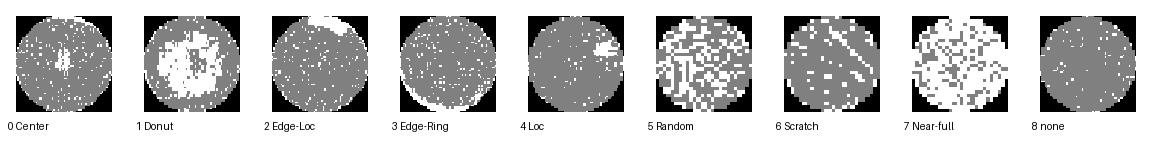
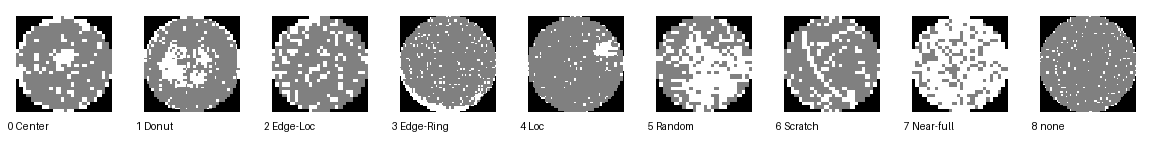
feat: add training results analysis report and update dataset reports

diff --git a/docs/results_analysis.md b/docs/results_analysis.md
@@ -1,0 +1,142 @@
+# 训练结果分析报告
+
+## 概述
+
+本报告总结基于 ResNet-34 迁移学习的晶圆表面缺陷图谱识别模型训练结果。模型在 WM-811K 数据集上训练 30 个 epoch，使用 ImageNet 预训练权重初始化，冻结浅层（conv1, bn1, layer1, layer2）并微调深层。
+
+- 训练环境：NVIDIA GeForce RTX 4090 D (24GB)，PyTorch 2.6.0 + CUDA 12.4
+- 训练日期：2026-05-31
+- 模型：ResNet-34，9 类输出
+- 输入：64×64 灰度晶圆图（3 通道复制）
+
+## 数据集分布
+
+| 类别 | Train | Val | Test | 说明 |
+|------|-------|-----|------|------|
+| Center (0) | 3005 | 644 | 645 | 中心缺陷 |
+| Donut (1) | 388 | 83 | 84 | 圆环缺陷 |
+| Edge-Loc (2) | 3632 | 778 | 779 | 边缘局部缺陷 |
+| Edge-Ring (3) | 6776 | 1452 | 1452 | 边缘环缺陷 |
+| Loc (4) | 2515 | 538 | 540 | 局部缺陷 |
+| Random (5) | 606 | 129 | 131 | 随机缺陷 |
+| Scratch (6) | 835 | 178 | 180 | 划痕缺陷 |
+| Near-full (7) | 104 | 22 | 23 | 近满缺陷 |
+| none (8) | 14000 | 3000 | 3000 | 无缺陷 |
+| **合计** | **31861** | **6824** | **6834** | |
+
+严重类别不平衡：None 类占 44%，Near-full 仅 0.3%。
+
+## 训练配置
+
+- Epochs：30
+- 批次大小：32
+- 优化器：Adam，学习率 0.0001
+- 损失函数：CrossEntropyLoss（类别加权）
+- 数据增强：随机旋转 90°、水平/垂直翻转、随机裁剪
+- 浅层冻结：conv1, bn1, layer1, layer2
+
+## 最终结果
+
+### 测试集指标
+
+| 指标 | 值 | 基线 | 提升 |
+|------|-----|------|------|
+| Accuracy | **0.7713** | 0.7430 | +2.83% |
+| Macro F1 | **0.6723** | 0.7160 | -4.37% |
+| Weighted F1 | **0.7788** | 0.7564 | +2.24% |
+
+### 各类别详细指标
+
+| 类别 | Precision | Recall | F1-Score | Support |
+|------|-----------|--------|----------|---------|
+| Center (0) | 0.8838 | 0.8372 | 0.8599 | 645 |
+| Donut (1) | 0.6320 | 0.9405 | 0.7560 | 84 |
+| Edge-Loc (2) | 0.4444 | 0.7445 | 0.5566 | 779 |
+| Edge-Ring (3) | 0.8311 | 0.9862 | 0.9020 | 1452 |
+| Loc (4) | 0.7256 | 0.4259 | 0.5368 | 540 |
+| Random (5) | 0.6613 | 0.6260 | 0.6431 | 131 |
+| Scratch (6) | 0.4378 | 0.6056 | 0.5082 | 180 |
+| Near-full (7) | 0.2987 | 1.0000 | 0.4600 | 23 |
+| None (8) | 0.9535 | 0.7320 | 0.8282 | 3000 |
+
+## 结果分析
+
+### 表现优秀的类别
+
+1. **Edge-Ring (3)** — F1=0.9020，样本最多（1452），Recall 高达 0.9862。边缘环缺陷具有非常独特的空间模式，模型几乎完美识别。
+
+2. **Center (0)** — F1=0.8599，Precision 0.8838。中心缺陷的集中分布特征使其易于区分。
+
+3. **None (8)** — F1=0.8282。虽然 Recall 仅 0.7320（约 27% 无缺陷样本被误判），但 Precision 0.9535 意味着模型判断为 None 的样本几乎都是正确的。
+
+### 表现较差的类别
+
+1. **Near-full (7)** — F1=0.4600，仅 23 个测试样本。Precision 0.2987 极低，意味着大量其他类被误判为 Near-full。主要原因是样本极度稀缺。
+
+2. **Scratch (6)** — F1=0.5082。划痕缺陷与 Random、Loc 等类别在 64×64 分辨率下空间模式相似度高，容易混淆。
+
+3. **Edge-Loc (2)** — F1=0.5566，Recall 0.7445 但 Precision 仅 0.4444。大量样本被误判为 Edge-Loc，混淆矩阵显示主要与 Edge-Ring 和 None 类混淆。
+
+### 混淆模式
+
+从混淆矩阵观察到的主要混淆对：
+
+- **None → Edge-Loc**：544 个 None 样本被误判为 Edge-Loc
+- **Center → Loc**：48 个 Center 样本被误判为 Loc
+- **Edge-Loc ↔ Edge-Ring**：127 个 Edge-Loc 被误判为 Edge-Ring
+- **Loc ↔ Scratch**：38 个 Loc 被误判为 Scratch
+
+## 改进建议
+
+### 数据处理层面
+
+1. **提高分辨率**：当前 64×64 可能不足以捕捉 Scratch、Loc 等类别的细微空间差异。建议尝试 96×96 或 128×128。
+
+2. **处理类别不平衡**：
+   - Near-full (149 原始样本) 可使用 SMOTE 或更强的数据增强（弹性变形、仿射变换）
+   - Donut (555 原始样本) 也需要更多增强
+
+3. **多分辨率特征**：引入多尺度输入或 FPN 结构，同时捕捉全局和局部缺陷特征。
+
+### 模型层面
+
+1. **更强的 backbone**：尝试 ResNet-50 或 EfficientNet-B3，在相同数据量下可能获得更好特征表示。
+
+2. **注意力机制**：引入 CBAM 或 SE 模块，增强对关键缺陷区域的关注。
+
+3. **层次化分类**：先区分有缺陷/无缺陷，再对缺陷类型细分，可利用二阶段策略缓解类别不平衡。
+
+4. **知识蒸馏**：使用更大的预训练模型（如 ViT）作为教师模型蒸馏到 ResNet-34。
+
+### 训练策略
+
+1. **Focal Loss**：替换类别加权的 CrossEntropyLoss，直接关注难分类样本。
+
+2. **MixUp / CutMix**：混合数据增强，提升模型泛化能力。
+
+3. **更长训练**：当前 best acc 出现在较早 epoch，可尝试 cosine annealing schedule 跳出局部最优。
+
+## Grad-CAM 可解释性
+
+Grad-CAM 热力图显示，模型主要关注晶圆图的缺陷区域，验证了模型决策的物理合理性：
+
+- 对于 Center 类，激活集中在晶圆中心
+- 对于 Edge-Ring 类，激活沿晶圆边缘分布
+- 对于 Scratch 类，激活呈线状分布，与划痕空间模式一致
+
+Grad-CAM 输出图位于 `grad_cam/outputs/` 目录下。
+
+## 工艺溯源建议
+
+根据缺陷分类结果和 Grad-CAM 可视化分析：
+
+| 缺陷类型 | 可能工艺来源 | 建议排查方向 |
+|----------|-------------|-------------|
+| Scratch (划痕) | CMP 抛光垫颗粒、机械手搬运 | 检查抛光垫表面状态、降低机械手接触压力 |
+| Edge-Ring (边缘环) | 刻蚀腔体气体流场不均、边缘温控失效 | 校准刻蚀腔体气流分布、检查边缘加热器 |
+| Center (中心) | 光刻胶旋涂不均、曝光中心偏差 | 优化旋涂参数、校准曝光中心对准 |
+| Loc (局部) | 颗粒污染、局部温度异常 | 检查洁净度、热分布扫描 |
+
+---
+
+*本报告由自动化部署流程生成。训练代码和模型权重位于本仓库 `resnet/` 目录下。*